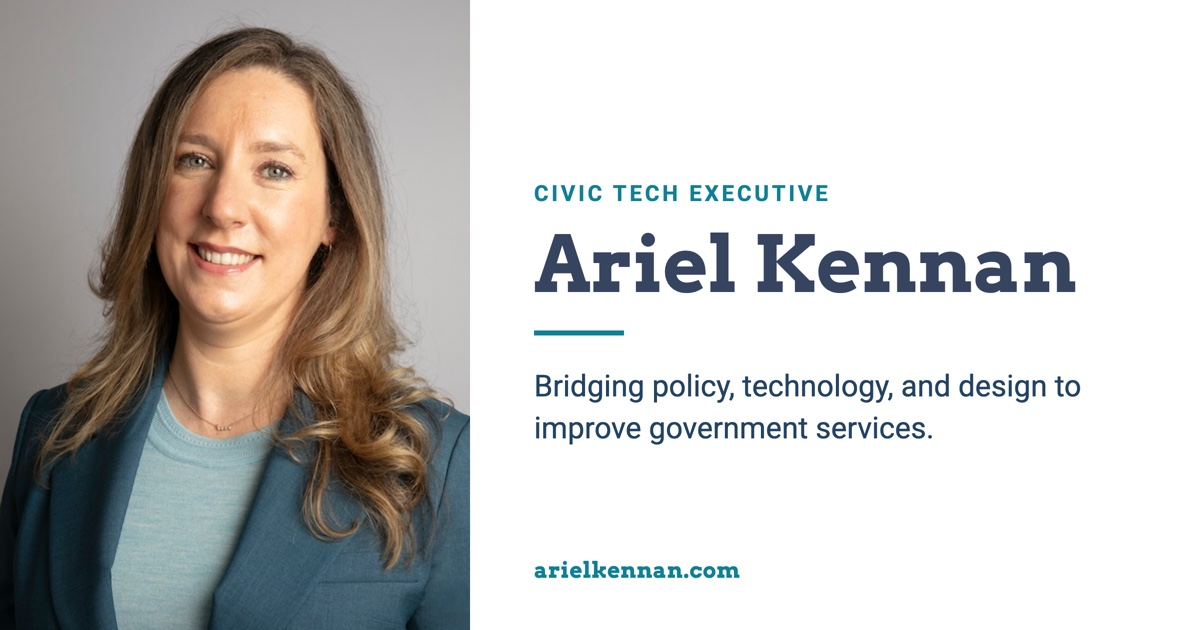
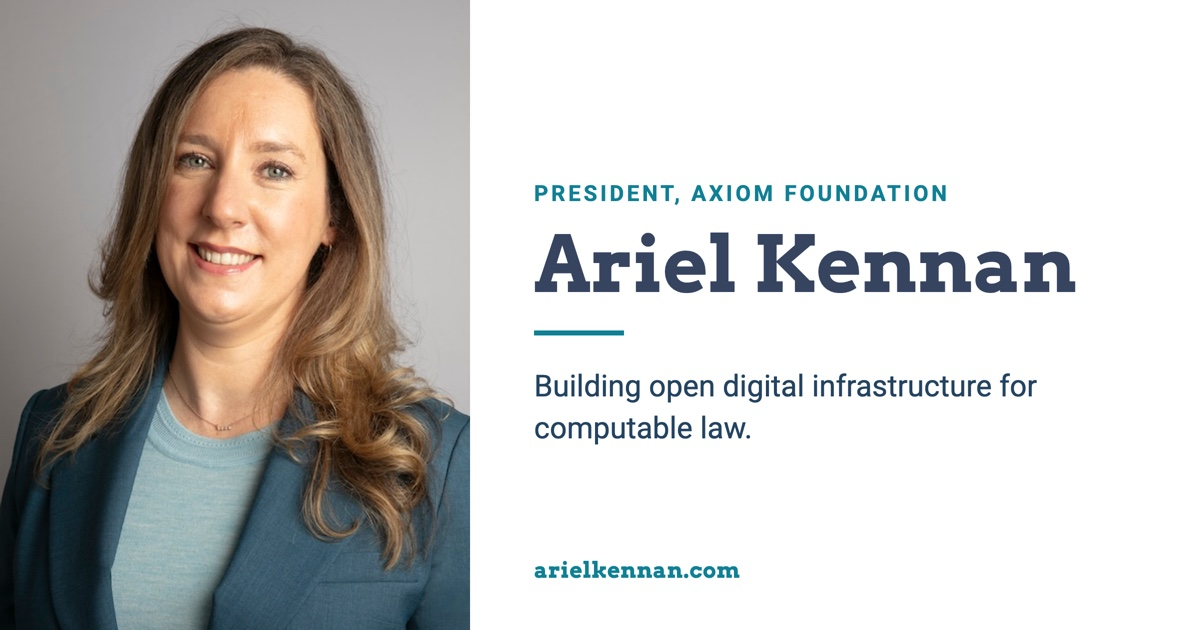
Sync social tags and regenerate OG card for Axiom role
- Update og:title/twitter:title to "President, Axiom Foundation" and
  og:description/twitter:description to the Axiom mission line on all pages.
- Regenerate img/og-image.jpg (1200x630) with the Axiom role and tagline.

Changed region(s): [[0.4317, 0.2714, 0.8017, 0.3317], [0.4625, 0.573, 0.925, 0.6333], [0.4317, 0.6635, 0.7708, 0.7238]]

diff --git a/experience.html b/experience.html
@@ -15,13 +15,13 @@
     <!-- Open Graph / social sharing -->
     <meta property="og:type" content="website">
     <meta property="og:site_name" content="Ariel Kennan">
-    <meta property="og:title" content="Ariel Kennan | Civic Tech Executive">
-    <meta property="og:description" content="Bridging policy, technology, and design to improve government services.">
+    <meta property="og:title" content="Ariel Kennan | President, Axiom Foundation">
+    <meta property="og:description" content="Building open digital infrastructure for computable law, starting with tax and benefit policy.">
     <meta property="og:url" content="https://www.arielkennan.com/experience.html">
     <meta property="og:image" content="https://www.arielkennan.com/img/og-image.jpg">
     <meta name="twitter:card" content="summary_large_image">
-    <meta name="twitter:title" content="Ariel Kennan | Civic Tech Executive">
-    <meta name="twitter:description" content="Bridging policy, technology, and design to improve government services.">
+    <meta name="twitter:title" content="Ariel Kennan | President, Axiom Foundation">
+    <meta name="twitter:description" content="Building open digital infrastructure for computable law, starting with tax and benefit policy.">
     <meta name="twitter:image" content="https://www.arielkennan.com/img/og-image.jpg">
     <meta name="author" content="">
     <link rel="icon" href="img/favicon.ico">

diff --git a/projects.html b/projects.html
@@ -16,13 +16,13 @@
     <!-- Open Graph / social sharing -->
     <meta property="og:type" content="website">
     <meta property="og:site_name" content="Ariel Kennan">
-    <meta property="og:title" content="Ariel Kennan | Civic Tech Executive">
-    <meta property="og:description" content="Bridging policy, technology, and design to improve government services.">
+    <meta property="og:title" content="Ariel Kennan | President, Axiom Foundation">
+    <meta property="og:description" content="Building open digital infrastructure for computable law, starting with tax and benefit policy.">
     <meta property="og:url" content="https://www.arielkennan.com/projects.html">
     <meta property="og:image" content="https://www.arielkennan.com/img/og-image.jpg">
     <meta name="twitter:card" content="summary_large_image">
-    <meta name="twitter:title" content="Ariel Kennan | Civic Tech Executive">
-    <meta name="twitter:description" content="Bridging policy, technology, and design to improve government services.">
+    <meta name="twitter:title" content="Ariel Kennan | President, Axiom Foundation">
+    <meta name="twitter:description" content="Building open digital infrastructure for computable law, starting with tax and benefit policy.">
     <meta name="twitter:image" content="https://www.arielkennan.com/img/og-image.jpg">
     <meta name="author" content="">
     <link rel="icon" href="img/favicon.ico">

diff --git a/speaking.html b/speaking.html
@@ -15,13 +15,13 @@
     <!-- Open Graph / social sharing -->
     <meta property="og:type" content="website">
     <meta property="og:site_name" content="Ariel Kennan">
-    <meta property="og:title" content="Ariel Kennan | Civic Tech Executive">
-    <meta property="og:description" content="Bridging policy, technology, and design to improve government services.">
+    <meta property="og:title" content="Ariel Kennan | President, Axiom Foundation">
+    <meta property="og:description" content="Building open digital infrastructure for computable law, starting with tax and benefit policy.">
     <meta property="og:url" content="https://www.arielkennan.com/speaking.html">
     <meta property="og:image" content="https://www.arielkennan.com/img/og-image.jpg">
     <meta name="twitter:card" content="summary_large_image">
-    <meta name="twitter:title" content="Ariel Kennan | Civic Tech Executive">
-    <meta name="twitter:description" content="Bridging policy, technology, and design to improve government services.">
+    <meta name="twitter:title" content="Ariel Kennan | President, Axiom Foundation">
+    <meta name="twitter:description" content="Building open digital infrastructure for computable law, starting with tax and benefit policy.">
     <meta name="twitter:image" content="https://www.arielkennan.com/img/og-image.jpg">
     <meta name="author" content="">
     <link rel="icon" href="img/favicon.ico">

diff --git a/writing.html b/writing.html
@@ -16,13 +16,13 @@
     <!-- Open Graph / social sharing -->
     <meta property="og:type" content="website">
     <meta property="og:site_name" content="Ariel Kennan">
-    <meta property="og:title" content="Ariel Kennan | Civic Tech Executive">
-    <meta property="og:description" content="Bridging policy, technology, and design to improve government services.">
+    <meta property="og:title" content="Ariel Kennan | President, Axiom Foundation">
+    <meta property="og:description" content="Building open digital infrastructure for computable law, starting with tax and benefit policy.">
     <meta property="og:url" content="https://www.arielkennan.com/writing.html">
     <meta property="og:image" content="https://www.arielkennan.com/img/og-image.jpg">
     <meta name="twitter:card" content="summary_large_image">
-    <meta name="twitter:title" content="Ariel Kennan | Civic Tech Executive">
-    <meta name="twitter:description" content="Bridging policy, technology, and design to improve government services.">
+    <meta name="twitter:title" content="Ariel Kennan | President, Axiom Foundation">
+    <meta name="twitter:description" content="Building open digital infrastructure for computable law, starting with tax and benefit policy.">
     <meta name="twitter:image" content="https://www.arielkennan.com/img/og-image.jpg">
     <meta name="author" content="">
     <link rel="icon" href="img/favicon.ico">

diff --git a/press.html b/press.html
@@ -15,13 +15,13 @@
     <!-- Open Graph / social sharing -->
     <meta property="og:type" content="website">
     <meta property="og:site_name" content="Ariel Kennan">
-    <meta property="og:title" content="Ariel Kennan | Civic Tech Executive">
-    <meta property="og:description" content="Bridging policy, technology, and design to improve government services.">
+    <meta property="og:title" content="Ariel Kennan | President, Axiom Foundation">
+    <meta property="og:description" content="Building open digital infrastructure for computable law, starting with tax and benefit policy.">
     <meta property="og:url" content="https://www.arielkennan.com/press.html">
     <meta property="og:image" content="https://www.arielkennan.com/img/og-image.jpg">
     <meta name="twitter:card" content="summary_large_image">
-    <meta name="twitter:title" content="Ariel Kennan | Civic Tech Executive">
-    <meta name="twitter:description" content="Bridging policy, technology, and design to improve government services.">
+    <meta name="twitter:title" content="Ariel Kennan | President, Axiom Foundation">
+    <meta name="twitter:description" content="Building open digital infrastructure for computable law, starting with tax and benefit policy.">
     <meta name="twitter:image" content="https://www.arielkennan.com/img/og-image.jpg">
     <meta name="author" content="">
     <link rel="icon" href="img/favicon.ico">

diff --git a/index.html b/index.html
@@ -15,13 +15,13 @@
     <!-- Open Graph / social sharing -->
     <meta property="og:type" content="website">
     <meta property="og:site_name" content="Ariel Kennan">
-    <meta property="og:title" content="Ariel Kennan | Civic Tech Executive">
-    <meta property="og:description" content="Bridging policy, technology, and design to improve government services.">
+    <meta property="og:title" content="Ariel Kennan | President, Axiom Foundation">
+    <meta property="og:description" content="Building open digital infrastructure for computable law, starting with tax and benefit policy.">
     <meta property="og:url" content="https://www.arielkennan.com/">
     <meta property="og:image" content="https://www.arielkennan.com/img/og-image.jpg">
     <meta name="twitter:card" content="summary_large_image">
-    <meta name="twitter:title" content="Ariel Kennan | Civic Tech Executive">
-    <meta name="twitter:description" content="Bridging policy, technology, and design to improve government services.">
+    <meta name="twitter:title" content="Ariel Kennan | President, Axiom Foundation">
+    <meta name="twitter:description" content="Building open digital infrastructure for computable law, starting with tax and benefit policy.">
     <meta name="twitter:image" content="https://www.arielkennan.com/img/og-image.jpg">
     <meta name="author" content="">
     <link rel="icon" href="img/favicon.ico">
